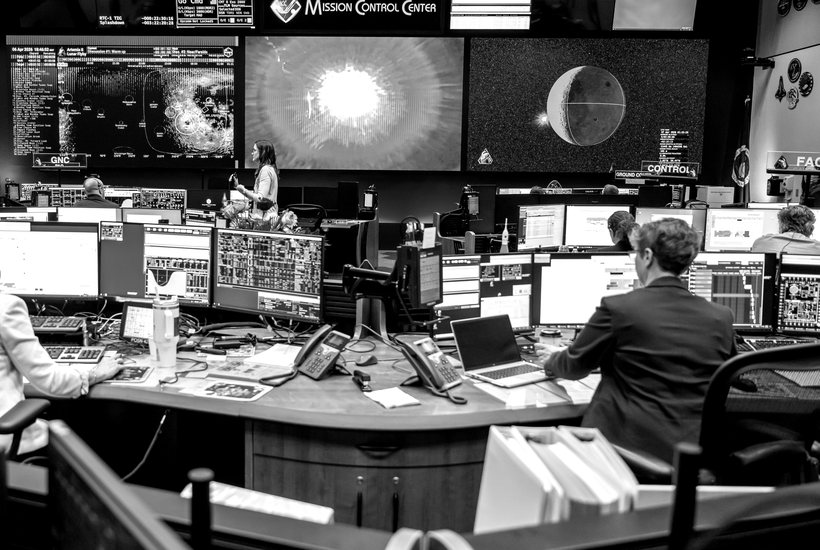
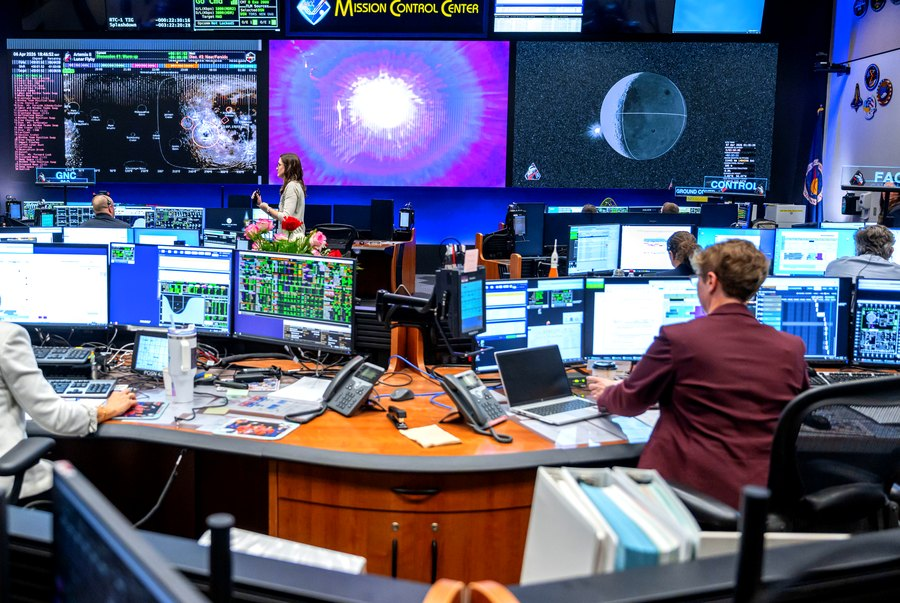
Blog: the control room in colour, over a starfield
Built the way .quest-sky is built on the about page. A dark pool gives the
stars something to sit on, the stars are drawn rather than photographed, and
the photograph goes over them in screen blend, so its dark areas stay
transparent and the stars show through. One mask on the wrapper feathers all
three layers along the same edge, with a long fade so the panel dissolves into
the page rather than ending at a border.

The photograph is now colour with saturation raised: the wall displays, the
telemetry greens and the plasma image carry the section instead of a grey
wash. The copy narrows to 58ch so nothing runs under it.

diff --git a/blog.html b/blog.html
@@ -201,31 +201,49 @@
 
     .blog-intro-head { display: none; }
 
-    /* The console sits behind the intro the way the bootprint sits behind the
-       Quest section on the index: grayscale, masked to no edge, and faint
-       enough that the copy stays the loudest thing on the page. This is a
-       dark-room photograph, so it is held at normal blend rather than
-       multiply, which would turn it to mud on a light background. */
+    /* The intro scene, built like .quest-sky on the about page: a dark pool
+       for the stars to sit on, drawn stars over it, then the photograph in
+       screen blend so its dark areas stay transparent and the stars show
+       through them. One mask on the wrapper feathers all three layers along
+       the same edge, so nothing has a border against the light page. */
     .bi-console {
       position: absolute;
       top: 50%;
       right: 0;
       transform: translateY(-50%);
-      width: min(36%, 330px);
-      aspect-ratio: 820 / 550;
+      width: min(33%, 320px);
+      aspect-ratio: 900 / 603;
       pointer-events: none;
       z-index: 0;
+      overflow: hidden;
+      -webkit-mask-image: radial-gradient(ellipse 72% 74% at 52% 48%, #000 0%, rgba(0,0,0,.96) 24%, rgba(0,0,0,.55) 58%, transparent 96%);
+              mask-image: radial-gradient(ellipse 72% 74% at 52% 48%, #000 0%, rgba(0,0,0,.96) 24%, rgba(0,0,0,.55) 58%, transparent 96%);
+      border-radius: 0;
     }
-    .bi-console img {
+    .bi-console .bi-pool {
+      position: absolute;
+      inset: 0;
+      background: radial-gradient(ellipse at 50% 46%, #101b2e 0%, #080d17 70%, #05080f 100%);
+    }
+    .bi-console .bi-stars {
+      position: absolute;
+      inset: 0;
       width: 100%;
       height: 100%;
       object-fit: cover;
-      display: block;
-      filter: grayscale(1) contrast(1.3) brightness(1.04);
-      opacity: .5;
-      -webkit-mask-image: radial-gradient(ellipse 62% 64% at 50% 50%, #000 0%, #000 40%, transparent 100%);
-              mask-image: radial-gradient(ellipse 62% 64% at 50% 50%, #000 0%, #000 40%, transparent 100%);
+      opacity: .95;
     }
+    .bi-console .bi-shot {
+      position: absolute;
+      inset: 0;
+      width: 100%;
+      height: 100%;
+      object-fit: cover;
+      mix-blend-mode: screen;
+      opacity: .88;
+      filter: saturate(1.25) contrast(1.05);
+    }
+
     .bi-credit {
       margin-top: 1.1rem;
       font-size: .72rem;
@@ -235,12 +253,11 @@
       opacity: .8;
     }
     @media (max-width: 760px) {
-      .bi-console { position: static; transform: none; width: 100%; margin: 0 0 1.25rem; }
-      .bi-console img { opacity: .5; }
+      .bi-console { position: static; transform: none; width: 100%; margin: 0 0 1.5rem; }
     }
 
 
-    .blog-intro-body { position: relative; z-index: 1; max-width: 62ch; }
+    .blog-intro-body { position: relative; z-index: 1; max-width: 58ch; }
 
     .blog-intro p {
       margin-bottom: 0.9rem;
@@ -771,7 +788,11 @@
     <!-- Blog Introduction -->
     <div class="blog-intro" data-aos="fade-up">
       <div class="blog-intro-head"><h3>About This Blog</h3></div>
-      <div class="bi-console" aria-hidden="true"><img src="mission-console.jpg" alt="" loading="lazy" decoding="async"></div>
+      <div class="bi-console" aria-hidden="true">
+        <div class="bi-pool"></div>
+        <img class="bi-stars" src="blog-starfield.svg" alt="" loading="lazy" decoding="async">
+        <img class="bi-shot" src="mission-console.jpg" alt="" loading="lazy" decoding="async">
+      </div>
       <div class="blog-intro-body">
         <p class="bi-lead">Ideas get worked out here in public, before they are settled.</p>
         <p>Some posts test the framework. Some examine how science itself operates, and what that costs the people inside it. Some take a speculative idea seriously enough to find out where it breaks. Every claim is sourced, and every post says plainly which parts are established, which are contested, and which are ours and still untested.</p>
